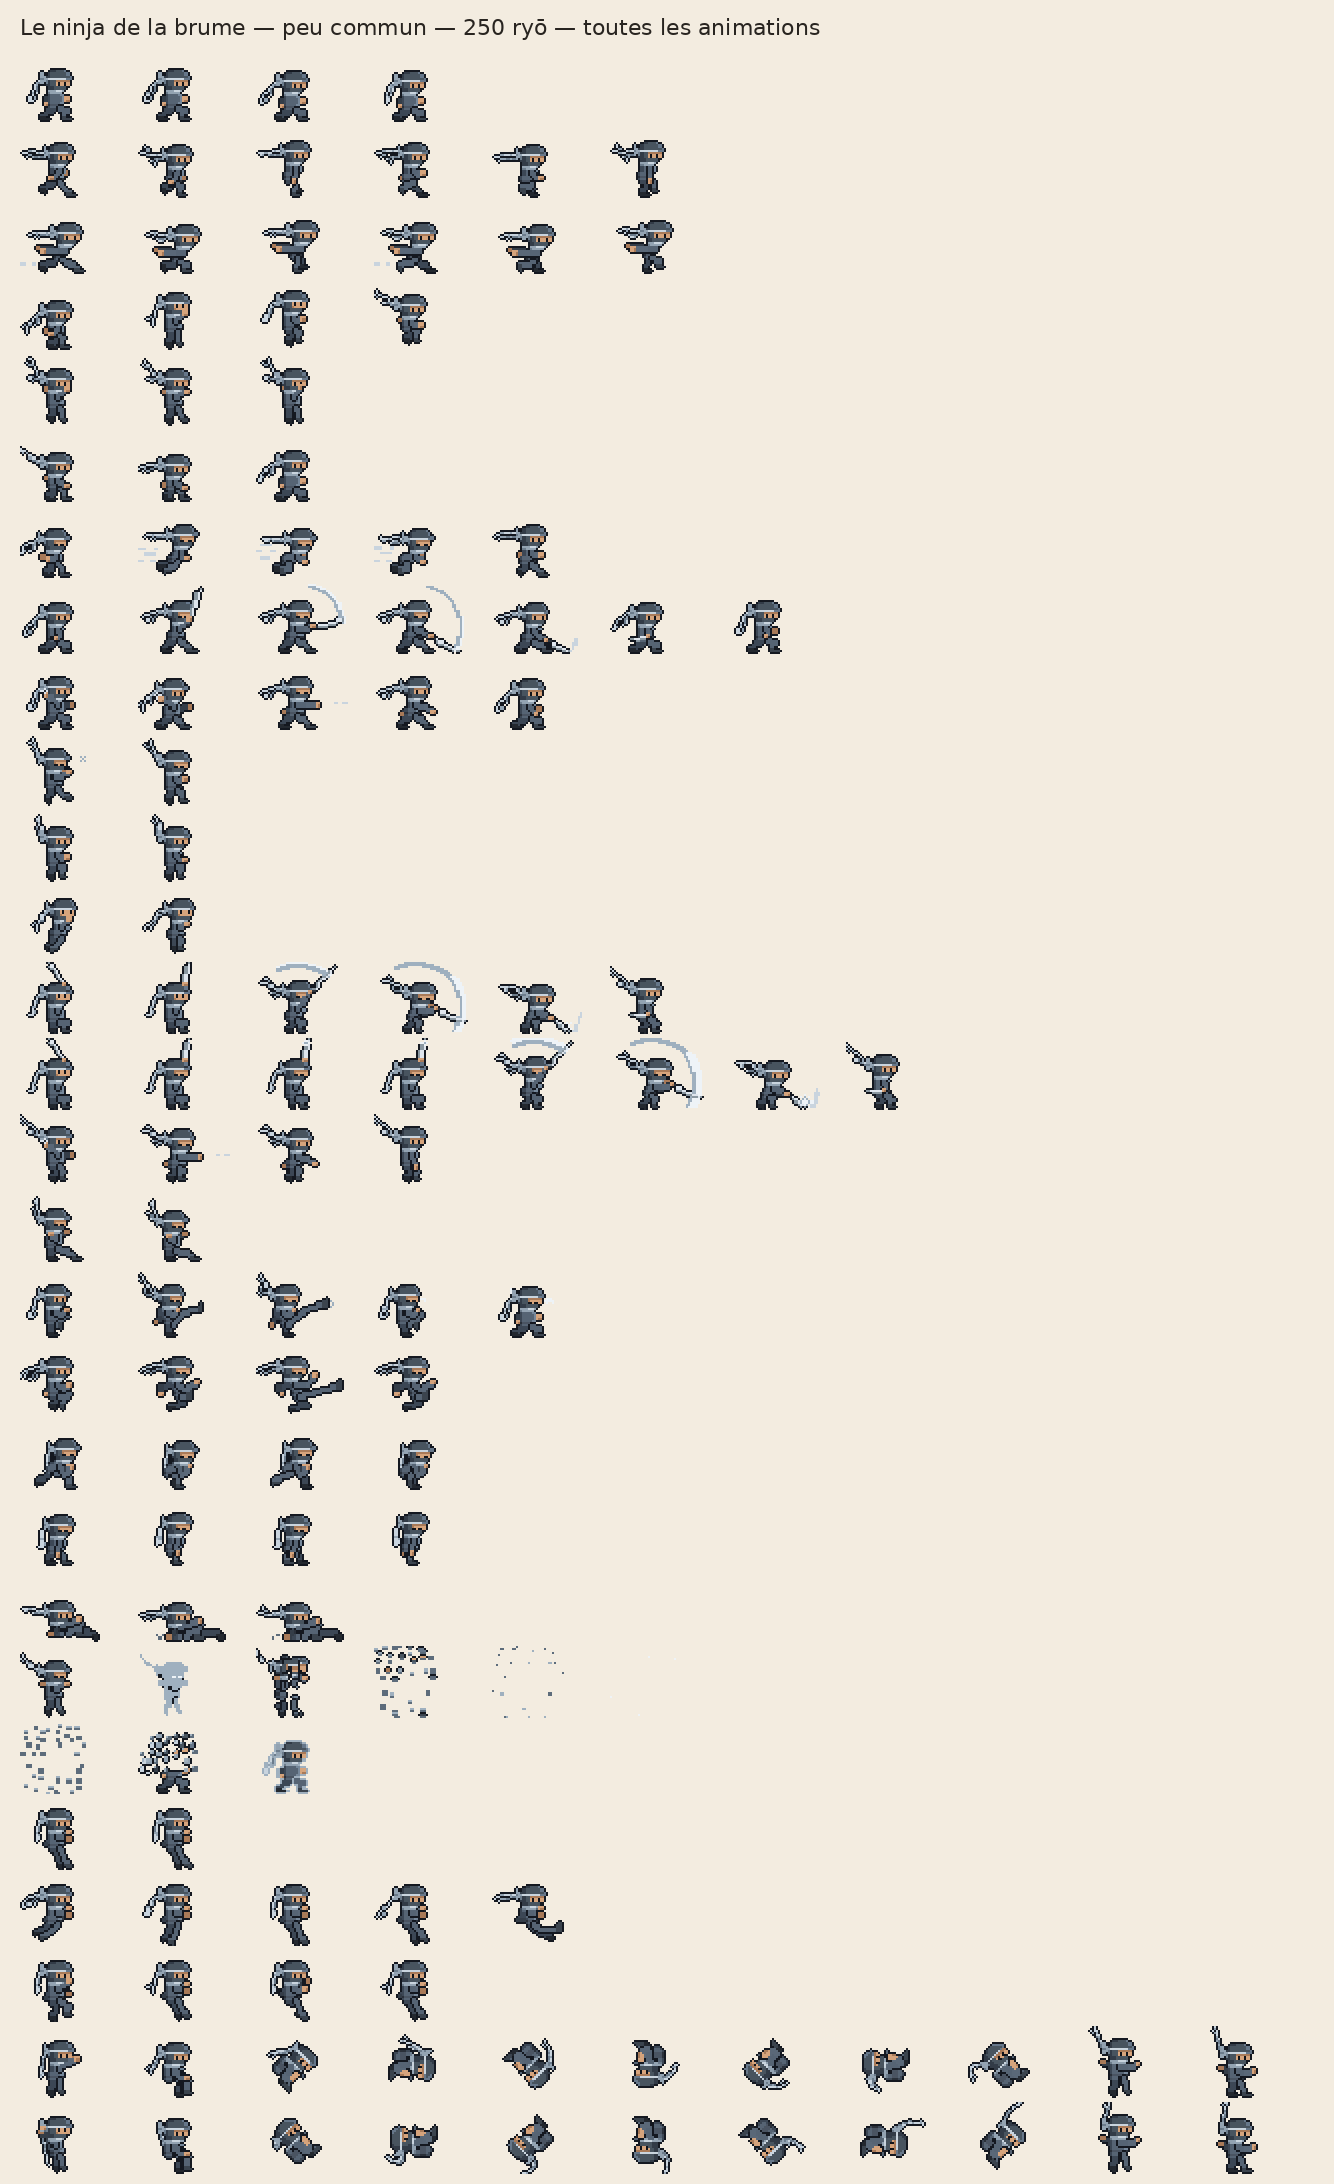
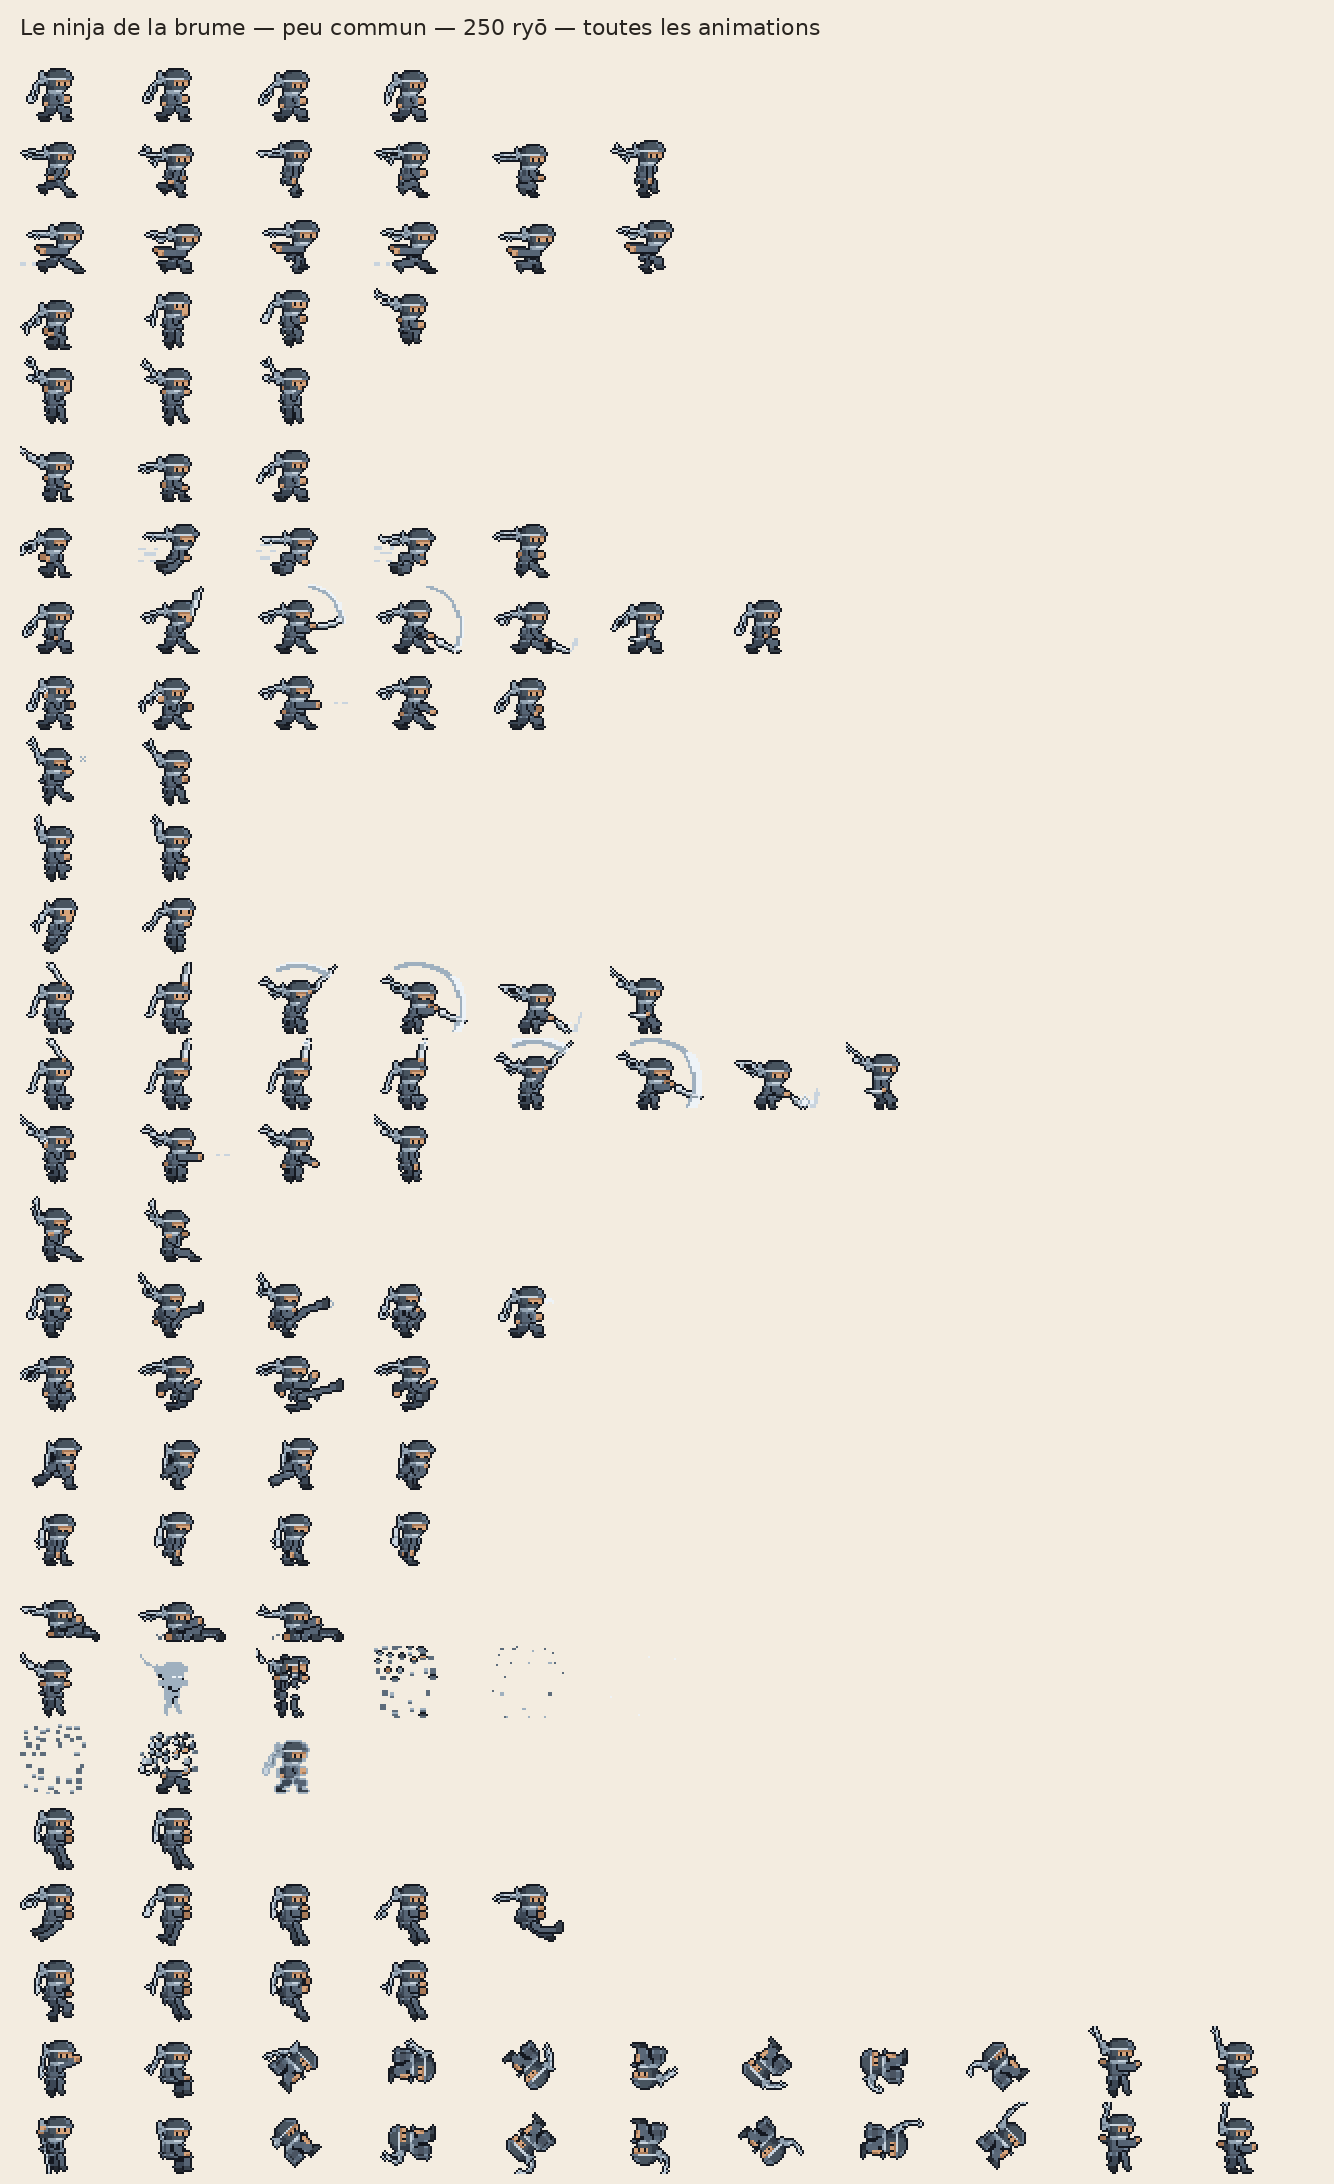
Ninja de la brume : brume plus brève et vaporeuse (contours irréguliers, dégradé doux), habits en haillons (tunique déchirée, entaille, lambeau de manche, bas effrangés)
Claude-Session: https://claude.ai/code/session_01A2iwx41GJ1yT1ZEu9VhwRg

diff --git a/src/game/mist.js b/src/game/mist.js
@@ -1,10 +1,12 @@
 // La traînée de brume du ninja de la brume (champ `dashFx: "mist"` du skin) : pendant le dash, des bouffées de
 // brume se détachent de son corps et restent derrière lui ; elles enflent, montent à peine, dérivent un peu vers
 // l'arrière et s'effacent. Au départ du dash, une bouffée plus épaisse (il « se dissout » dans la brume).
-// Dessin en pixels du jeu : chaque bouffée est un petit nuage tramé (cœur clair, bord gris-bleu, une trame en
-// damier qui s'éclaircit vers le bord) ; rien de flou. Purement décoratif : rien ne change au jeu.
+// Dessin en pixels du jeu : chaque bouffée est un petit nuage vaporeux, aux contours irréguliers (son rayon varie
+// selon la direction : pas un rond parfait), dont l'opacité baisse doucement du cœur vers le bord, qui se défait
+// en pixels épars (demande de Raph : moins net, moins détaillé, un peu flou). Purement décoratif.
 
-const CORE = '#e2e9ef', MID = '#bccad6', EDGE = '#8fa1b2';
+const SHADES = ['#e2e9ef', '#d2dce5', '#bccad6', '#a5b5c4', '#8fa1b2'];
+const hash = (x, y, s) => { let n = (x * 374761393 + y * 668265263 + s * 2147483647) | 0; n = (n ^ (n >>> 13)) * 1274126177; return ((n ^ (n >>> 16)) >>> 0) / 4294967296; };
 
 export class Mist {
   constructor() {
@@ -49,8 +51,10 @@ export class Mist {
       r0: (2.8 + Math.random() * 1.6) * size,
       grow: (4 + Math.random() * 3) * Math.min(size, 1.2),
       age: 0,
-      life: (0.8 + Math.random() * 0.45) * (size > 1 ? 1.3 : 1),
-      seed: (Math.random() * 4) | 0,
+      life: (0.55 + Math.random() * 0.3) * (size > 1 ? 1.25 : 1),
+      seed: (Math.random() * 1e6) | 0,
+      ph: [Math.random() * 6.3, Math.random() * 6.3],
+      squash: 1.1 + Math.random() * 0.35,
     });
   }
 
@@ -61,16 +65,19 @@ export class Mist {
       const k = p.age / p.life, r = p.r0 + p.grow * p.age;
       const cx = Math.round(p.x - cam.x), cy = Math.round(p.y - cam.y), R = Math.ceil(r);
       const fade = k < 0.25 ? 1 : (1 - k) / 0.75;   // (pleine un instant, puis elle s'efface)
-      for (let dy = -R; dy <= R; dy++) {
-        for (let dx = -R; dx <= R; dx++) {
-          const d = Math.hypot(dx, dy * 1.25) / r;    // (un peu aplatie : la brume s'étale)
+      for (let dy = -R - 1; dy <= R + 1; dy++) {
+        for (let dx = -R - 1; dx <= R + 1; dx++) {
+          // un contour bosselé : le rayon change avec la direction (deux ondulations), et la bouffée est aplatie
+          const ang = Math.atan2(dy, dx);
+          const rr = r * (1 + 0.24 * Math.sin(3 * ang + p.ph[0]) + 0.13 * Math.sin(5 * ang + p.ph[1]));
+          const d = Math.hypot(dx, dy * p.squash) / rr;
           if (d > 1) continue;
-          // la trame : pleine au cœur, en damier vers le bord, clairsemée à l'extrême bord
           const X = cx + dx, Y = cy + dy;
-          if (d > 0.55 && (X + Y + p.seed) % 2) continue;
-          if (d > 0.85 && (X + p.seed) % 3) continue;
-          ctx.globalAlpha = fade * (d < 0.45 ? 0.82 : 0.62);
-          ctx.fillStyle = d < 0.45 ? CORE : d < 0.75 ? MID : EDGE;
+          // le bord se défait en pixels épars (de plus en plus clairsemés vers l'extérieur)
+          if (d > 0.6 && hash(X, Y, p.seed) < (d - 0.6) / 0.4 * 0.7) continue;
+          // l'opacité baisse en douceur du cœur au bord ; la teinte fonce un peu vers le bord
+          ctx.globalAlpha = fade * 0.58 * (1 - d * d * 0.75);
+          ctx.fillStyle = SHADES[Math.min(SHADES.length - 1, Math.floor(d * SHADES.length))];
           ctx.fillRect(X, Y, 1, 1);
         }
       }

diff --git a/tools/kage_forge/accessories.py b/tools/kage_forge/accessories.py
@@ -1965,7 +1965,66 @@ def mist_tails(g):
     return fray(g)
 
 
+
+# les habits abîmés du ninja de la brume (demande de Raph : qu'on comprenne des haillons, sans en faire trop).
+# À notre échelle (le torse fait 4 rangées sur 6 pixels), c'est la silhouette déchiquetée qui le dit :
+# le bas de la tunique déchiré, plus clair, dont une dent déborde derrière et devant la hanche ; le bas du pantalon
+# effrangé (une dent de tissu au-dessus de chaque chaussure) ; une entaille au milieu du torse, son bord clair ;
+# un lambeau de manche, plus clair, qui pend derrière l'épaule.
+def tatters(g):
+    b = _belt(g)
+    pos = find_head(g)
+    if b is None or pos is None:
+        return g, False
+    by, bx, be = b
+    hx, hy = pos
+    g = g.copy()
+    mask = np.zeros(g.shape, bool)
+
+    def put(x, y, c, ok, outline=False):
+        if 0 <= x < CW and 0 <= y < CH and g[y, x] in ok:
+            g[y, x] = c
+            if outline:
+                mask[y, x] = True
+            return True
+        return False
+    # le bas de la tunique, déchiré : plus clair, en dents
+    if by + 1 < CH:
+        cols = [x for x in range(CW) if g[by + 1, x] in "tTU"]
+        if cols:
+            x0, x1 = min(cols), max(cols)
+            for x in range(x0, x1 + 1):
+                put(x, by + 1, "U" if (x - x0) % 2 == 0 else "T", "tTU")
+            put(x0 - 1, by + 1, "T", BG, True) and put(x0 - 1, by + 2, "t", BG, True)
+            put(x1 + 1, by + 2, "T", BG, True)
+    # l'entaille au milieu du torse : deux pixels sombres en biais, un fil clair au-dessus
+    y = by - 3
+    row = [x for x in range(CW) if 0 <= y < CH and g[y, x] in "tTU"]
+    if len(row) >= 4:
+        cx = row[len(row) // 2]
+        if g[y + 1, cx + 1] in "tTU" and g[y - 1, cx - 1] in "tTU":
+            g[y, cx] = "O"
+            g[y + 1, cx + 1] = "O"
+            g[y - 1, cx - 1] = "U"
+    # le bas du pantalon effrangé : une dent de tissu au-dessus de chaque chaussure, côté arrière de la jambe
+    for y in range(by + 2, CH - 1):
+        for x in range(1, CW):
+            if g[y, x] in "tTU" and g[y + 1, x] in "dD" and g[y, x - 1] in BG and g[y + 1, x - 1] in BG:
+                put(x - 1, y, "t", BG, True)
+                break
+    # le lambeau de manche, derrière l'épaule (plus clair que la tunique, il se détache)
+    xl = _back_edge(g, hy + 11, hx, TORSO)
+    if xl is not None:
+        for x, y, c in ((xl - 1, hy + 11, "U"), (xl - 1, hy + 12, "T"), (xl - 2, hy + 13, "T")):
+            if not put(x, y, c, BG, True):
+                break
+    _outline(g, mask)
+    return g, True
+
+
 def accessory(name):
+    if name == "tatters":
+        return tatters
     if name == "mist_tails":
         return mist_tails
     if name == "crow_skull":
